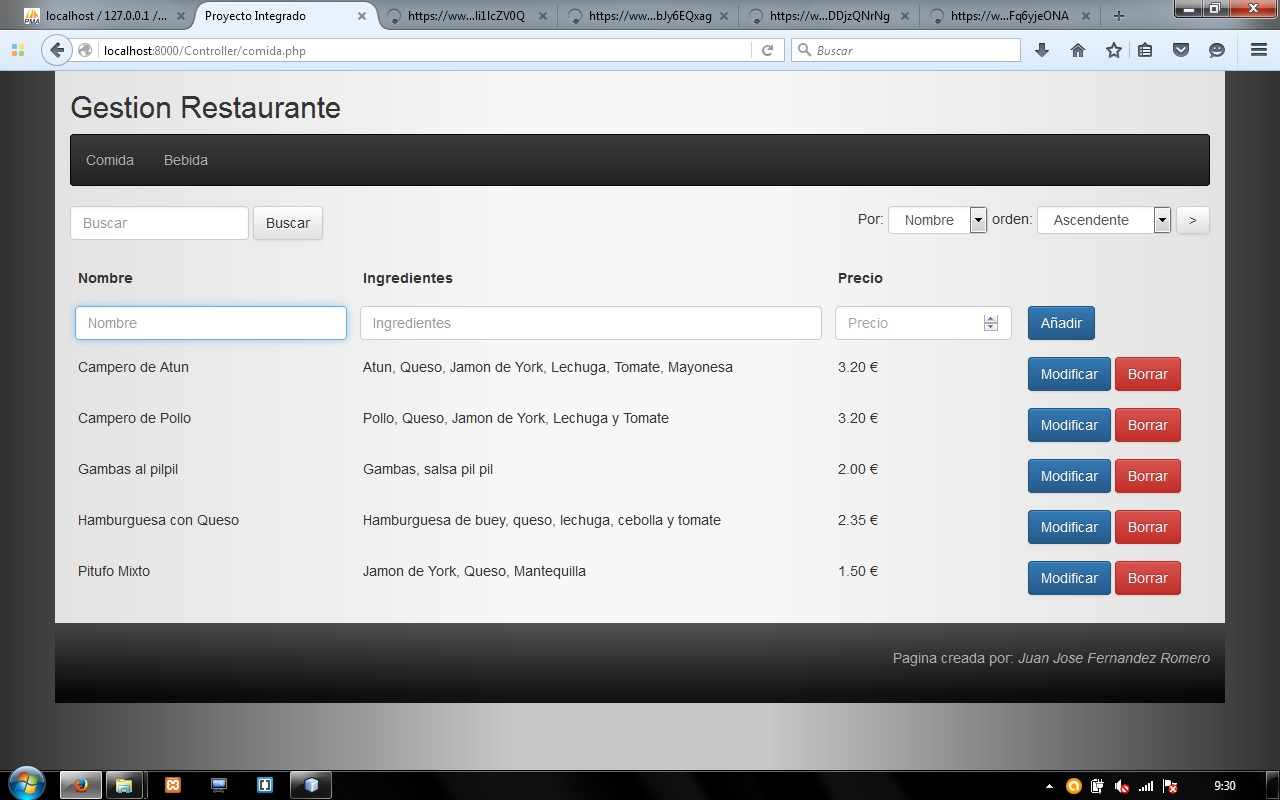
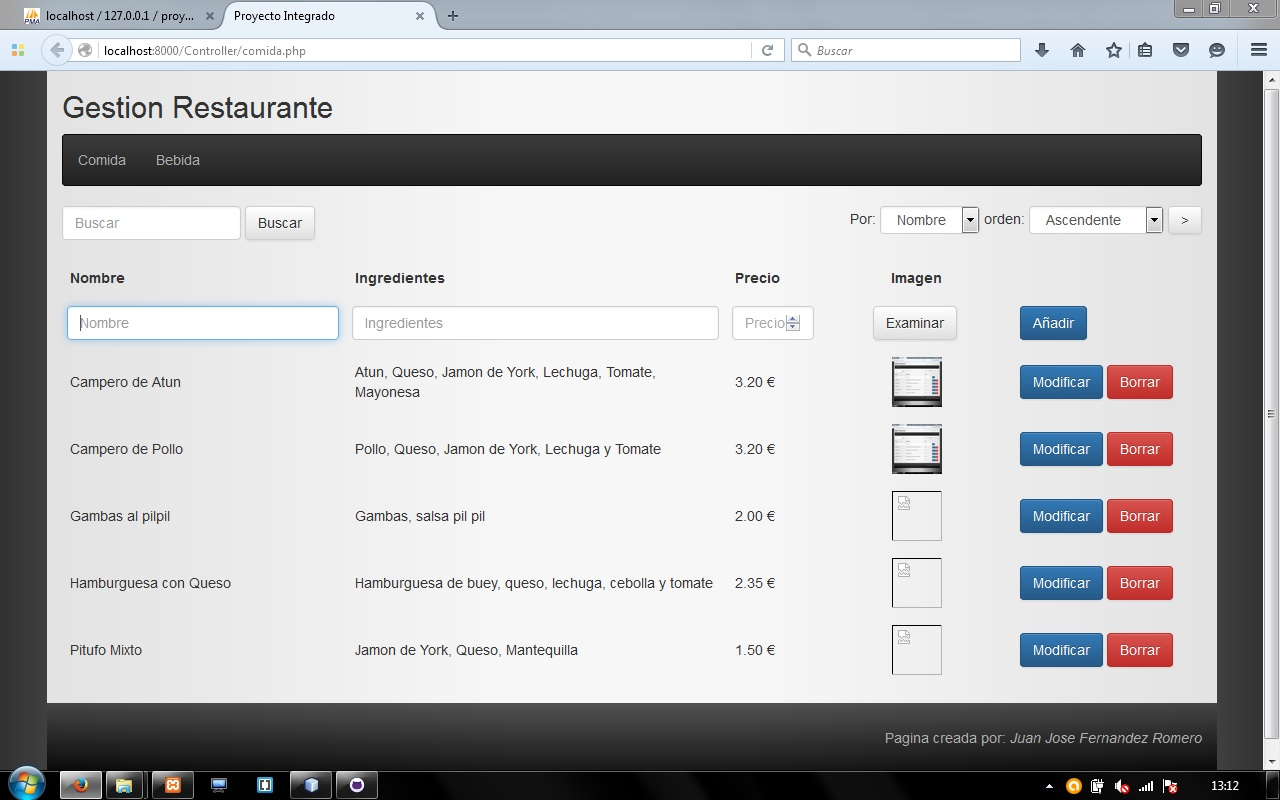
actu PI

diff --git a/View/css/style.css b/View/css/style.css
@@ -146,7 +146,6 @@ body {
 
 .tools {
     
-<<<<<<< HEAD
     margin-bottom: 20px!important;
     
 }
@@ -172,8 +171,5 @@ td {
     
     display: none!important;
     opacity: 0!important;
-=======
-    margin-bottom: 20px;!important;
->>>>>>> origin/master
     
 }

diff --git a/Model/Comida.php b/Model/Comida.php
@@ -62,11 +62,7 @@ class Comida {
     
     // Funcion setter para todos los atributos, 
     // en el caso de que no se quiera cambiar un atributo, dejar en blanco o en null
-<<<<<<< HEAD
     public function setter($nombre=null, $precio=null, $ingredientes=null, $imgDir=null, $fecha=null) {
-=======
-    public function setter($nombre=null, $precio=null, $ingredientes=null, $fecha=null) {
->>>>>>> origin/master
         
         if ($nombre !== "" && $nombre != null) {
             $this->nombre = $nombre;
@@ -83,13 +79,10 @@ class Comida {
         if ($imgDir !== "" && $imgDir !== null) {
             $this->imgDir = $imgDir;
         }
-<<<<<<< HEAD
         
         if ($fecha !== "" && $fecha != null) {
             $this->fecha = $fecha;
         }
-=======
->>>>>>> origin/master
     }
     
     // Funcion insert que inserta un nuevo objeto a la base de datos
@@ -129,19 +122,11 @@ class Comida {
         $conexion = restDB::connectDB();
         
         // Sentencia para modificar el objeto
-<<<<<<< HEAD
         $update = "UPDATE comida SET nombre=\"$this->nombre\", precio=\"$this->precio\", ingredientes=\"$this->ingredientes\", imagen=\"$this->imgDir\" ,fecha=STR_TO_DATE(\"$this->fecha\", \"%d-%m-%Y\") WHERE id=\"$this->id\"";
         
         // Ejecutamos la sentencia y guardamos la respuesta de la BD
         $resultado = $conexion->query($update);
         
-=======
-        $update = "UPDATE comida SET nombre=\"$this->nombre\", precio=\"$this->precio\", ingredientes=\"$this->ingredientes\", fecha=STR_TO_DATE(\"$this->fecha\", \"%d-%m-%Y\") WHERE id=\"$this->id\"";
-        
-        // Ejecutamos la sentencia y guardamos la respuesta de la BD
-        $resultado = $conexion->query($update);
-        
->>>>>>> origin/master
         // Devolvemos la respuesta de la BD
         return $resultado;
     }
@@ -185,11 +170,7 @@ class Comida {
         }
         
         // Si la hay un segundo filtro, se filtra el valor por esa columna tambien
-<<<<<<< HEAD
         if ($filtro2 !== "" && $filtro2 !== null && $valor !== null && $valor !== "") {
-=======
-        if ($filtro2 !== "" && $filtro2 !== null) {
->>>>>>> origin/master
             $seleccion .= " OR LOWER($filtro2) LIKE LOWER('%$valor%')";
         }
         

diff --git a/Model/Bebida.php b/Model/Bebida.php
@@ -125,11 +125,7 @@ class Bebida {
         $conexion = restDB::connectDB();
         
         // Sentencia para modificar el objeto
-<<<<<<< HEAD
         $update = "UPDATE bebida SET nombre=\"$this->nombre\", cantidad=\"$this->cantidad\", precio=\"$this->precio\", imagen=\"$this->imgDir\" , fecha=STR_TO_DATE(\"$this->fecha\", \"%d-%m-%Y\") WHERE id=\"$this->id\"";
-=======
-        $update = "UPDATE bebida SET nombre=\"$this->nombre\", cantidad=\"$this->cantidad\", precio=\"$this->precio\", fecha=STR_TO_DATE(\"$this->fecha\", \"%d-%m-%Y\") WHERE id=\"$this->id\"";
->>>>>>> origin/master
         
         // Ejecutamos la sentencia y guardamos la respuesta de la BD
         $resultado = $conexion->query($update);
@@ -176,11 +172,7 @@ class Bebida {
         }
         
         // Si la hay un segundo filtro, se filtra el valor por esa columna tambien
-<<<<<<< HEAD
         if ($filtro2 !== "" && $filtro2 !== null && $valor !== null && $valor !== "") {
-=======
-        if ($filtro2 !== "" && $filtro2 !== null) {
->>>>>>> origin/master
             $seleccion .= " OR LOWER($filtro2) LIKE LOWER('%$valor%')";
         }
         

diff --git a/Controller/addBebida.php b/Controller/addBebida.php
@@ -13,7 +13,6 @@ if (isset($_POST["addSubmit"])) {
     // Fecha actual con formato
     $fecha = date('d-m-Y');
     
-<<<<<<< HEAD
     // Le damos un nombre nuevo a la imagen
     $imgName = "img" . time();
     
@@ -29,27 +28,16 @@ if (isset($_POST["addSubmit"])) {
     
     // Creamos el objeto que insertaremos
     $bebida = new Bebida($_POST["addNombre"], $_POST["addPrecio"], $_POST["addCantidad"], $imgDir,  $fecha);
-=======
-    // Creamos el objeto que insertaremos
-    $bebida = new Bebida($_POST["addNombre"], $_POST["addPrecio"], $_POST["addCantidad"], $fecha);
->>>>>>> origin/master
     
     // Recogemos la respuesta de la BD
     $resultado = $bebida->insert();
     
-<<<<<<< HEAD
     
-=======
->>>>>>> origin/master
     if ($resultado == false) {
         header("Location: bebida.php?error=1");
     } else {
         header("Location: bebida.php?success=1");
-<<<<<<< HEAD
     } 
-=======
-    }
->>>>>>> origin/master
     
 } else {
     

diff --git a/Controller/updateBebida.php b/Controller/updateBebida.php
@@ -13,7 +13,6 @@ if (isset($_POST["updateBebida"])) {
     // Fecha actual con formato
     $fecha = date('d-m-Y');
     
-<<<<<<< HEAD
     // Gestionamos la imagen si se ha subido
     if ($_FILES["updateImagen"]["name"] !== "") {
         
@@ -38,17 +37,11 @@ if (isset($_POST["updateBebida"])) {
         $imgDir = "";
     }
     
-=======
->>>>>>> origin/master
     // Buscamos en la base de datos y guardamos el objeto que queremos modificar
     $bebida = Bebida::getBebidaById($_POST["updateId"]);
     
     // Setter para modificar todos los atributos del objeto
-<<<<<<< HEAD
     $bebida->setter($_POST["updateNombre"], $_POST["updatePrecio"], $_POST["updateCantidad"], $imgDir, $fecha);
-=======
-    $bebida->setter($_POST["updateNombre"], $_POST["updatePrecio"], $_POST["updateCantidad"], $fecha);
->>>>>>> origin/master
     
     // Recogemos la respuesta de la BD
     $resultado = $bebida->update();

diff --git a/Controller/updateComida.php b/Controller/updateComida.php
@@ -13,7 +13,6 @@ if (isset($_POST["updateComida"])) {
     // Fecha actual con formato
     $fecha = date('d-m-Y');
     
-<<<<<<< HEAD
     // Gestionamos la imagen si se ha subido
     if ($_FILES["updateImagen"]["name"] !== "") {
         
@@ -38,17 +37,11 @@ if (isset($_POST["updateComida"])) {
         $imgDir = "";
     }
     
-=======
->>>>>>> origin/master
     // Buscamos en la base de datos y guardamos el objeto que queremos modificar
     $comida = Comida::getComidaById($_POST["updateId"]);
     
     // Setter para modificar todos los atributos del objeto
-<<<<<<< HEAD
     $comida->setter($_POST["updateNombre"], $_POST["updatePrecio"], $_POST["updateIngredientes"], $imgDir, $fecha);
-=======
-    $comida->setter($_POST["updateNombre"], $_POST["updatePrecio"], $_POST["updateIngredientes"], $fecha);
->>>>>>> origin/master
     
     var_dump($comida);
     

diff --git a/Controller/addComida.php b/Controller/addComida.php
@@ -13,7 +13,6 @@ if (isset($_POST["addSubmit"])) {
     // Fecha actual con formato
     $fecha = date('d-m-Y');
     
-<<<<<<< HEAD
     // Le damos un nombre nuevo a la imagen
     $imgName = "img" . time();
     
@@ -29,10 +28,6 @@ if (isset($_POST["addSubmit"])) {
     
     // Creamos el objeto que insertaremos
     $comida = new Comida($_POST["addNombre"], $_POST["addPrecio"], $_POST["addIngredientes"], $imgDir, $fecha);
-=======
-    // Creamos el objeto que insertaremos
-    $comida = new Comida($_POST["addNombre"], $_POST["addPrecio"], $_POST["addIngredientes"], $fecha);
->>>>>>> origin/master
     
     // Recogemos la respuesta de la BD
     $resultado = $comida->insert();

diff --git a/Controller/bebida.php b/Controller/bebida.php
@@ -36,15 +36,6 @@ if (isset($_POST["filtro2"])) {
     $filtro2 = $_POST["filtro2"];
 }
 
-<<<<<<< HEAD
-=======
-// Si se ha mandado el filtro
-if (isset($_POST["filtro2"])) {
-    // Asignamos el filtro
-    $filtro2 = $_POST["filtro2"];
-}
-
->>>>>>> origin/master
 // Si nos llega algun mensaje de error lo guardamos en data para pasarlo a la vista
 if (isset($_GET["error"])) {
     $data["error"] = 1;

diff --git a/Controller/comida.php b/Controller/comida.php
@@ -37,15 +37,6 @@ if (isset($_POST["filtro2"])) {
     $filtro2 = $_POST["filtro2"];
 }
 
-<<<<<<< HEAD
-=======
-// Si se ha mandado el filtro
-if (isset($_POST["filtro2"])) {
-    // Asignamos el filtro
-    $filtro2 = $_POST["filtro2"];
-}
-
->>>>>>> origin/master
 // Si nos llega algun mensaje de error lo guardamos en data para pasarlo a la vista
 if (isset($_GET["error"])) {
     $data["error"] = 1;
